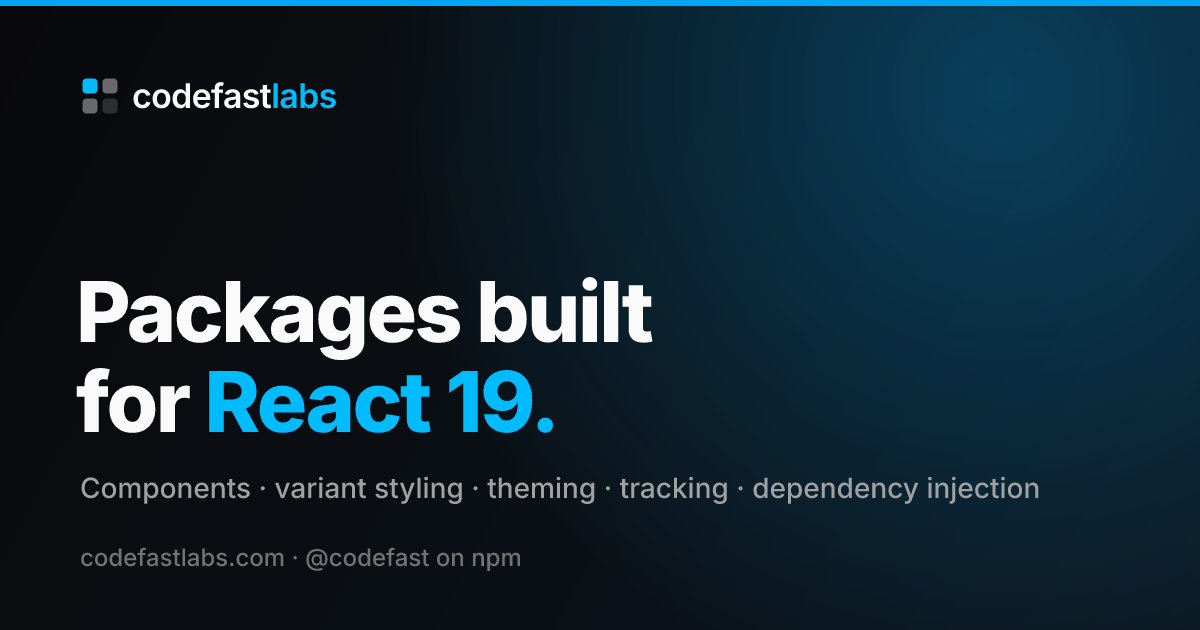
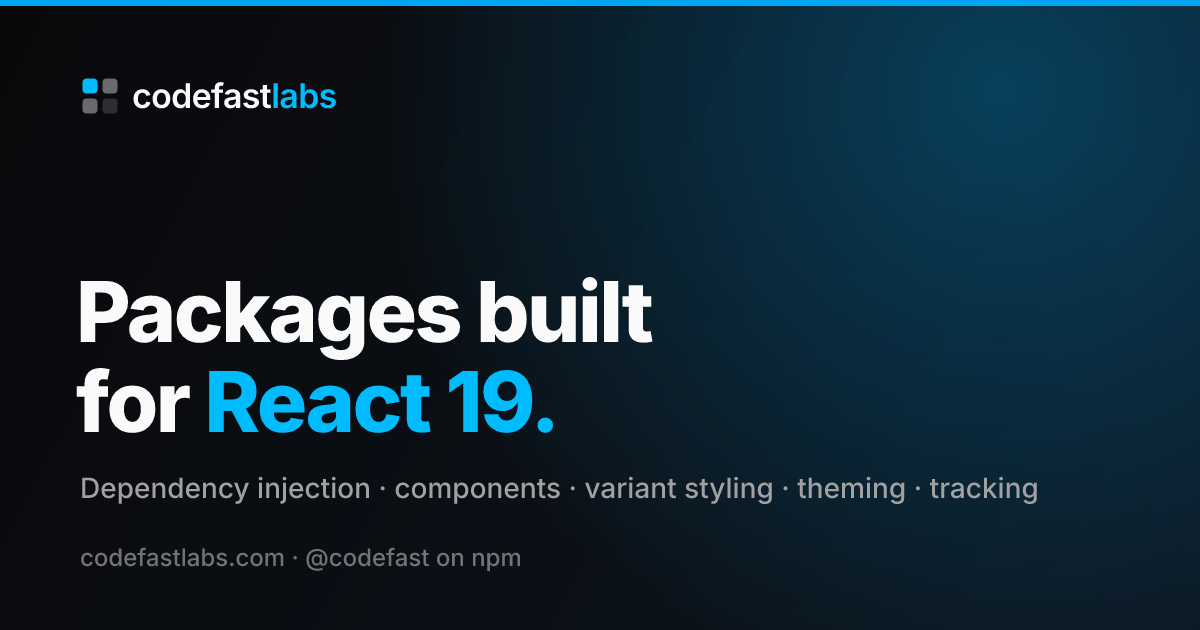
feat(ui): lead the landing with the di quick start
The hero staged a collage of UI components beside a portal-level headline, so the site read as a component library
with satellites. It now stages the flagship: a code card with the @codefast/di quick start, highlighted on the server by
the same Shiki instance the registry uses (highlightTsx is exposed for it) and baked into the prerendered home page
through the route loader. The sample is a real TypeScript file that type-checks against @codefast/di, which apps/ui now
depends on, so the code on the front page cannot drift from the API.

The lede, the secondary call to action, the site and JSON-LD descriptions, llms.txt, the packages section, the footer and
the social card all lead with dependency injection; the unused hero cards are gone.

Changed region(s): [[0.0617, 0.754, 0.8633, 0.8143]]

diff --git a/apps/ui/src/features/home/components/hero-section.tsx b/apps/ui/src/features/home/components/hero-section.tsx
@@ -1,15 +1,27 @@
 import { Badge } from "@codefast/ui/badge";
 import { Button } from "@codefast/ui/button";
+import { cn } from "@codefast/ui/lib/utils";
 import { Link } from "@tanstack/react-router";
+import type { ComponentProps } from "react";
 
-import { HeroShowcase } from "#/features/home/components/hero-showcase";
+import { HeroDiCard } from "#/features/home/components/hero-di-card";
 import { COMPONENT_COUNT } from "#/features/home/data";
 
-export function HeroSection() {
+interface HeroSectionProps extends Omit<ComponentProps<"section">, "children"> {
+  /** The flagship's quick start as dual-theme highlighted HTML, from the route loader. */
+  readonly snippetHtml: string;
+}
+
+/** The landing hero: the portal's pitch beside the flagship's quick start. */
+export function HeroSection({ snippetHtml, className, ...props }: HeroSectionProps) {
   return (
     <section
       aria-labelledby="home-hero-title"
-      className="relative flex min-h-[calc(100vh-var(--spacing-header))] items-center overflow-hidden px-4 py-20 sm:py-24"
+      className={cn(
+        "relative flex min-h-[calc(100vh-var(--spacing-header))] items-center overflow-hidden px-4 py-20 sm:py-24",
+        className,
+      )}
+      {...props}
     >
       <div
         aria-hidden
@@ -21,7 +33,7 @@ export function HeroSection() {
       />
 
       <div className="relative container mx-auto">
-        <div className="grid items-center gap-16 lg:grid-cols-[minmax(0,1fr)_minmax(0,24rem)] lg:gap-20 xl:grid-cols-[minmax(0,1.1fr)_minmax(0,26rem)]">
+        <div className="grid grid-cols-[minmax(0,1fr)] items-center gap-16 lg:grid-cols-[minmax(0,1fr)_minmax(0,30rem)] lg:gap-16 xl:grid-cols-[minmax(0,1fr)_minmax(0,34rem)]">
           <div className="text-center lg:text-start">
             <div className="hero-enter">
               <Badge variant="outline" className="mb-6 border-ui-border/60 text-ui-muted">
@@ -40,8 +52,9 @@ export function HeroSection() {
             </h1>
 
             <p className="hero-enter mx-auto mb-8 max-w-lg text-lg leading-relaxed text-ui-muted [--hero-enter-delay:200ms] lg:mx-0">
-              {COMPONENT_COUNT}+ accessible UI components, variant styling, theming, consent-gated tracking, and
-              dependency injection — typed, documented, and published under @codefast.
+              Dependency injection with typed tokens and an auto-mocking test bed, {COMPONENT_COUNT}+ accessible UI
+              components, variant styling, theming, and consent-gated tracking — typed, documented, and published under
+              @codefast.
             </p>
 
             <div className="hero-enter flex flex-col items-center gap-3 [--hero-enter-delay:300ms] sm:flex-row sm:justify-center lg:justify-start">
@@ -51,13 +64,15 @@ export function HeroSection() {
                 </Link>
               </Button>
               <Button asChild variant="outline" size="lg">
-                <Link to="/ui/components">Explore @codefast/ui</Link>
+                <Link to="/docs/$pkg" params={{ pkg: "di" }}>
+                  Explore @codefast/di
+                </Link>
               </Button>
             </div>
           </div>
 
-          <div className="mx-auto w-full max-w-sm lg:mx-0 lg:max-w-none">
-            <HeroShowcase />
+          <div className="hero-enter mx-auto w-full max-w-xl [--hero-enter-delay:200ms] lg:mx-0 lg:max-w-none">
+            <HeroDiCard highlightedCode={snippetHtml} />
           </div>
         </div>
       </div>

diff --git a/apps/ui/src/routes/index.tsx b/apps/ui/src/routes/index.tsx
@@ -1,6 +1,7 @@
 import { createFileRoute } from "@tanstack/react-router";
 
 import { HeroSection } from "#/features/home/components/hero-section";
+import { getHeroSnippet } from "#/features/home/lib/hero-snippet";
 import { PackagesSection } from "#/features/package-docs/components/packages-section";
 import { getPackages } from "#/features/package-docs/lib/package-docs";
 import { CONTENT_CACHE_HEADERS } from "#/lib/cache";
@@ -14,7 +15,11 @@ export const Route = createFileRoute("/")({
   // Effective in dev and any live render; once prerendered, `routeRules` in vite.config.ts applies instead.
   headers: () => ({ ...CONTENT_CACHE_HEADERS }),
   staleTime: 60 * 60_000,
-  loader: () => getPackages(),
+  loader: async () => {
+    const [packages, snippetHtml] = await Promise.all([getPackages(), getHeroSnippet()]);
+
+    return { packages, snippetHtml };
+  },
   head: () => {
     const seo = canonicalHead("/");
 
@@ -27,7 +32,7 @@ export const Route = createFileRoute("/")({
           "@type": "WebSite",
           name: "Codefast Labs",
           url: SITE_URL,
-          description: `Open-source TypeScript packages for React 19 products: ${COMPONENTS.length}+ accessible UI components, variant styling, appearance management, consent-gated tracking, and dependency injection.`,
+          description: `Open-source TypeScript packages for React 19 products: dependency injection with an auto-mocking test bed, ${COMPONENTS.length}+ accessible UI components, variant styling, appearance management, and consent-gated tracking.`,
           publisher: {
             "@type": "Organization",
             name: "Codefast Labs",
@@ -43,11 +48,11 @@ export const Route = createFileRoute("/")({
 });
 
 function HomePage() {
-  const packages = Route.useLoaderData();
+  const { packages, snippetHtml } = Route.useLoaderData();
 
   return (
     <main>
-      <HeroSection />
+      <HeroSection snippetHtml={snippetHtml} />
       <PackagesSection packages={packages} />
     </main>
   );

diff --git a/apps/ui/src/registry/_core/highlight-source.impl.ts b/apps/ui/src/registry/_core/highlight-source.impl.ts
@@ -30,11 +30,21 @@ function getHighlighter(): Promise<HighlighterCore> {
 }
 
 /**
- * Highlights to one dual-theme tree: `defaultColor: "light"` writes a real light
+ * Highlights TSX to one dual-theme tree: `defaultColor: "light"` writes a real light
  * color inline (legible even without theme CSS) plus a `--shiki-dark` var that
  * `styles.css` swaps under `.dark` — half the bytes of a tree per theme.
  */
-async function highlight(ref: SourceRef, highlighter: HighlighterCore): Promise<HighlightedSource> {
+export async function highlightTsx(code: string): Promise<string> {
+  const highlighter = await getHighlighter();
+
+  return highlighter.codeToHtml(code, {
+    lang: "tsx",
+    themes: { light: "github-light", dark: "github-dark" },
+    defaultColor: "light",
+  });
+}
+
+async function highlight(ref: SourceRef): Promise<HighlightedSource> {
   const loadCode = rawSources[ref];
 
   if (!loadCode) {
@@ -42,23 +52,17 @@ async function highlight(ref: SourceRef, highlighter: HighlighterCore): Promise<
   }
 
   const code = await loadCode();
-  const html = highlighter.codeToHtml(code, {
-    lang: "tsx",
-    themes: { light: "github-light", dark: "github-dark" },
-    defaultColor: "light",
-  });
 
-  return { code, html };
+  return { code, html: await highlightTsx(code) };
 }
 
 /**
- * Highlights every ref in one pass, sharing a single highlighter instance —
+ * Highlights every ref in one pass over the one memoised highlighter —
  * one server-fn round trip per doc instead of one per example.
  */
 export async function highlightSources(refs: ReadonlyArray<SourceRef>): Promise<Record<SourceRef, HighlightedSource>> {
-  const highlighter = await getHighlighter();
   const entries = await Promise.all(
-    refs.map(async (ref): Promise<[SourceRef, HighlightedSource]> => [ref, await highlight(ref, highlighter)]),
+    refs.map(async (ref): Promise<[SourceRef, HighlightedSource]> => [ref, await highlight(ref)]),
   );
 
   return Object.fromEntries(entries);

diff --git a/apps/ui/src/routes/llms[.]txt.ts b/apps/ui/src/routes/llms[.]txt.ts
@@ -44,10 +44,11 @@ function buildLlmsTxt(packages: ReadonlyArray<PackageSummary>): string {
 
   return `# Codefast Labs
 
-> Open-source TypeScript packages for React 19 products, published under \`@codefast\`: ${COMPONENTS.length}+ accessible UI components built on Radix UI and Tailwind CSS v4, a type-safe variant styling API, appearance management, consent-gated event tracking for TanStack Start, and dependency-injection primitives.
+> Open-source TypeScript packages for React 19 products, published under \`@codefast\`: dependency injection on TC39 Stage 3 decorators with an auto-mocking test bed, ${COMPONENTS.length}+ accessible UI components built on Radix UI and Tailwind CSS v4, a type-safe variant styling API, appearance management, and consent-gated event tracking for TanStack Start.
 
 ## Key facts
 - Every package is published to npm under the \`@codefast\` scope and developed in one monorepo
+- \`@codefast/di\` is the flagship: typed tokens, native Stage 3 decorators, scopes, modules and introspection, with \`@codefast/di-testing\` as its auto-mocking test bed
 - \`@codefast/ui\` components are named sub-path imports: \`@codefast/ui/<slug>\` (e.g. \`@codefast/ui/button\`)
 - Every page below has a raw Markdown twin: append \`.md\` to a component page, or use the Markdown links under each package
 

diff --git a/apps/ui/src/features/home/components/hero-di-card.tsx b/apps/ui/src/features/home/components/hero-di-card.tsx
@@ -1,0 +1,32 @@
+import { cn } from "@codefast/ui/lib/utils";
+import { BracesIcon } from "lucide-react";
+import type { ComponentProps } from "react";
+
+import { CodeBlock } from "#/components/shared/code-block";
+
+interface HeroDiCardProps extends Omit<ComponentProps<"div">, "children"> {
+  /** The sample as dual-theme highlighted HTML. */
+  readonly highlightedCode: string;
+}
+
+/** The hero's code card: the flagship's quick start, wired and resolved in a dozen lines. */
+export function HeroDiCard({ highlightedCode, className, ...props }: HeroDiCardProps) {
+  return (
+    <div
+      className={cn(
+        "w-full overflow-hidden rounded-2xl border border-ui-border/60 bg-ui-card shadow-2xl shadow-black/10 dark:shadow-black/40",
+        className,
+      )}
+      {...props}
+    >
+      <div className="flex items-center justify-between border-b border-ui-border/60 px-5 py-3.5">
+        <div className="flex items-center gap-2 text-xs font-semibold tracking-widest text-ui-muted uppercase">
+          <BracesIcon className="size-3.5" />
+          Quick start
+        </div>
+        <span className="font-mono text-xs text-ui-muted">@codefast/di</span>
+      </div>
+      <CodeBlock highlightedCode={highlightedCode} />
+    </div>
+  );
+}

diff --git a/apps/ui/src/routes/__root.tsx b/apps/ui/src/routes/__root.tsx
@@ -20,7 +20,7 @@ import appCss from "#/styles.css?url";
 
 const SITE_NAME = "Codefast Labs";
 const SITE_TITLE = "Codefast Labs — TypeScript packages for React 19 products";
-const SITE_DESCRIPTION = `Open-source TypeScript packages for React 19 products: ${COMPONENTS.length}+ accessible UI components built on Radix UI and Tailwind CSS v4, variant styling, appearance management, consent-gated tracking, and dependency injection.`;
+const SITE_DESCRIPTION = `Open-source TypeScript packages for React 19 products: dependency injection with an auto-mocking test bed, ${COMPONENTS.length}+ accessible UI components built on Radix UI and Tailwind CSS v4, variant styling, appearance management, and consent-gated tracking.`;
 
 export const Route = createRootRoute({
   head: () => ({

diff --git a/apps/ui/src/features/home/lib/hero-snippet.ts b/apps/ui/src/features/home/lib/hero-snippet.ts
@@ -1,0 +1,18 @@
+import { createServerFn } from "@tanstack/react-start";
+import { setResponseHeader } from "@tanstack/react-start/server";
+
+import { CONTENT_CACHE_HEADERS } from "#/lib/cache";
+
+/**
+ * The hero's `@codefast/di` sample, highlighted on the server so Shiki never reaches a client chunk. A GET with the
+ * content-cache headers: prerendering bakes it into the home page, and a client-side visit hits the CDN.
+ */
+export const getHeroSnippet = createServerFn({ method: "GET" }).handler(async (): Promise<string> => {
+  for (const [name, value] of Object.entries(CONTENT_CACHE_HEADERS)) {
+    setResponseHeader(name, value);
+  }
+
+  const { highlightHeroSnippet } = await import("#/features/home/lib/hero-snippet.impl");
+
+  return highlightHeroSnippet();
+});

diff --git a/apps/ui/src/features/package-docs/components/packages-section.tsx b/apps/ui/src/features/package-docs/components/packages-section.tsx
@@ -22,7 +22,7 @@ export function PackagesSection({ packages, ...props }: PackagesSectionProps) {
           eyebrow="Packages"
           titleId="packages-title"
           title="One repo, every layer."
-          description="UI components, variant styling, appearance management, consent-gated tracking, dependency injection, and the tooling that keeps them honest — all published under @codefast."
+          description="Dependency injection, UI components, variant styling, appearance management, consent-gated tracking, and the tooling that keeps them honest — all published under @codefast."
           className="mb-12"
         />
         <div className="grid gap-4 sm:grid-cols-2 lg:grid-cols-3">

diff --git a/apps/ui/src/features/home/lib/hero-snippet.impl.ts b/apps/ui/src/features/home/lib/hero-snippet.impl.ts
@@ -1,0 +1,16 @@
+/** Server-only highlighter for the hero's `@codefast/di` sample; the source file itself type-checks against the package. */
+import { highlightTsx } from "#/registry/_core/highlight-source.impl";
+
+// A raw glob rather than a `?raw` specifier, which the import linter resolves as a module with no default export.
+const rawSources = import.meta.glob<string>("./hero-snippet.source.ts", {
+  query: "?raw",
+  import: "default",
+  eager: true,
+});
+
+const source = rawSources["./hero-snippet.source.ts"] ?? "";
+
+/** The hero sample as dual-theme highlighted HTML. */
+export function highlightHeroSnippet(): Promise<string> {
+  return highlightTsx(source.trimEnd());
+}

diff --git a/apps/ui/src/features/home/lib/hero-snippet.source.ts b/apps/ui/src/features/home/lib/hero-snippet.source.ts
@@ -1,0 +1,25 @@
+import { Container, injectable, token } from "@codefast/di";
+
+interface Logger {
+  info(message: string): void;
+}
+
+const LoggerToken = token<Logger>("Logger");
+
+@injectable([LoggerToken])
+class CheckoutService {
+  constructor(private readonly logger: Logger) {}
+
+  complete(orderId: string): void {
+    this.logger.info(`Order ${orderId} completed`);
+  }
+}
+
+const container = Container.create();
+
+container.bind(LoggerToken).toConstantValue({
+  info: (message) => console.log(message),
+});
+container.bind(CheckoutService).toSelf();
+
+container.resolve(CheckoutService).complete("ORD-1001");

diff --git a/apps/ui/tests/unit/features/home/lib/hero-snippet.test.ts b/apps/ui/tests/unit/features/home/lib/hero-snippet.test.ts
@@ -1,0 +1,15 @@
+import { describe, expect, it } from "vitest";
+
+import { highlightHeroSnippet } from "#/features/home/lib/hero-snippet.impl";
+
+describe("highlightHeroSnippet", () => {
+  it("renders the flagship quick start as a dual-theme Shiki tree", async () => {
+    const html = await highlightHeroSnippet();
+
+    expect(html).toContain('class="shiki');
+    expect(html).toContain("--shiki-dark");
+    expect(html).toContain("CheckoutService");
+    expect(html).toContain("@codefast/di");
+    expect(html).not.toMatch(/\n\s*$/);
+  });
+});

diff --git a/apps/ui/src/components/layout/footer.tsx b/apps/ui/src/components/layout/footer.tsx
@@ -19,7 +19,8 @@ export function Footer() {
               <Logo />
             </div>
             <p className="mb-4 text-sm leading-6 text-ui-muted">
-              Open-source TypeScript packages for React 19 products — UI components, styling, theming, tracking, and DI.
+              Open-source TypeScript packages for React 19 products — dependency injection, UI components, styling,
+              theming, and tracking.
             </p>
             <AppearanceToggle />
           </div>
